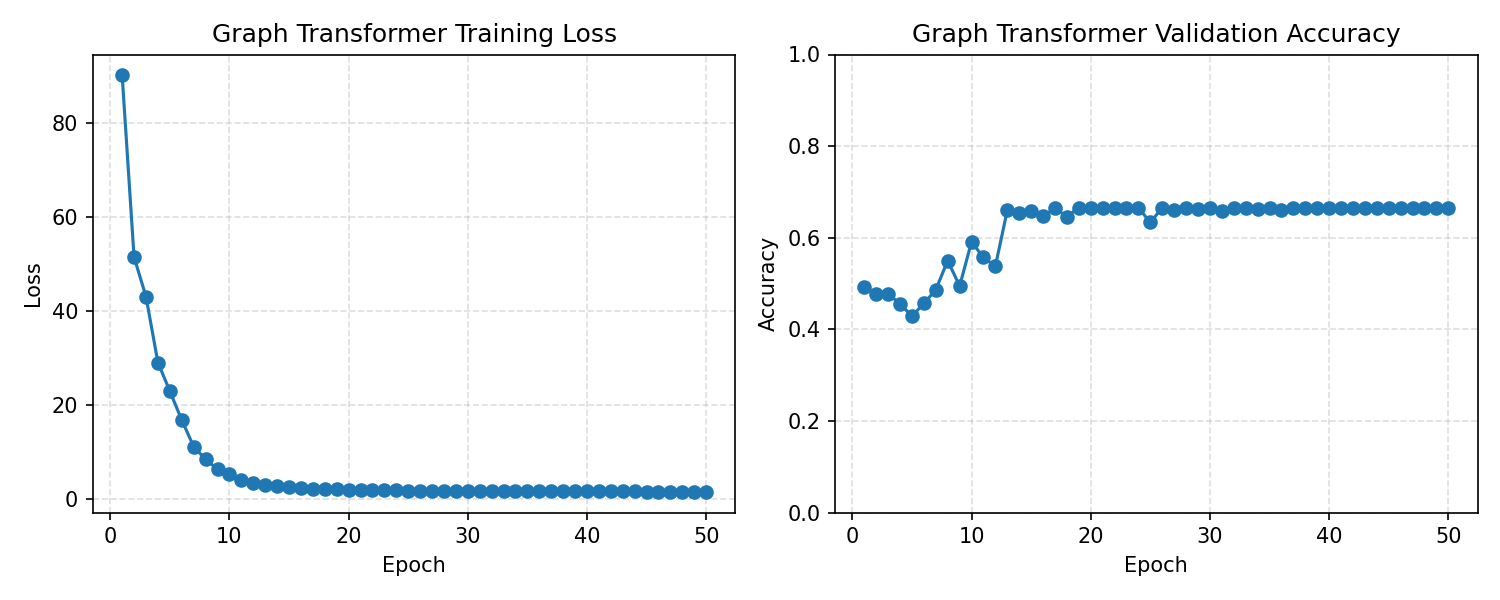
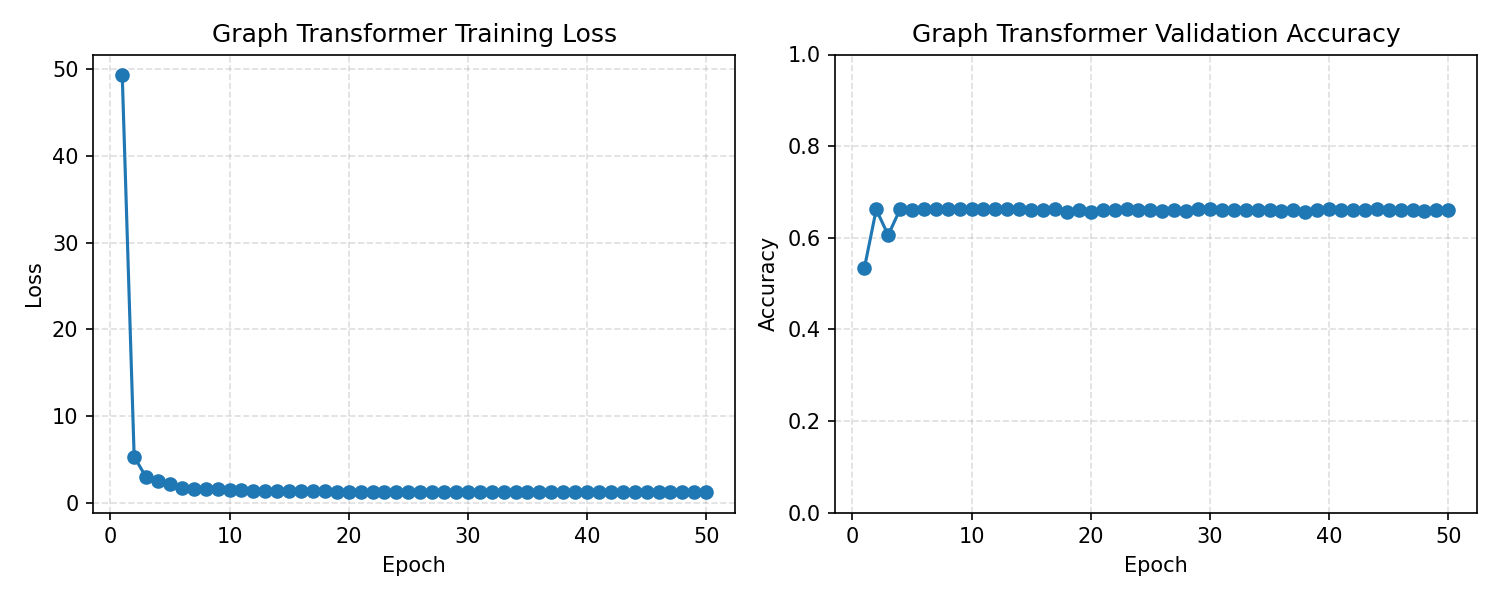
Add sequence based transformer layer

diff --git a/app/transformer_based_next_action/pipeline_runner.py b/app/transformer_based_next_action/pipeline_runner.py
@@ -23,7 +23,7 @@ class TransformerRunner:
         self.loader = loader or DataCsvLoader()
         self.cfg = cfg or GraphConfig()
 
-    def _pretrain_sequence(self, k: int = 32, epochs: int = 5, batch_size: int = 128, lr: float = 1e-3):
+    def _pretrain_sequence(self, k: int = 32, epochs: int = 20, batch_size: int = 128, lr: float = 1e-3):
         dataset = ActionsSequenceDataset(self.loader, self.cfg, k=k)
         if len(dataset) == 0:
             print("No sequences; adjust num_games or k.")
@@ -67,9 +67,9 @@ class TransformerRunner:
             print(f"Pretrain Seq Epoch {epoch+1}/{epochs} - loss {running/max(1,len(loader)):.4f} acc {correct/max(1,total):.4f}")
         return model, dataset
 
-    def train_graph_transformer(self, epochs: int = 3, lr: float = 1e-3, num_layers: int = 5, k_hops: int = 5, batch_size: int = 1024, pretrain_epochs: int = 5, k: int = 32) -> float:
+    def train_graph_transformer(self, epochs: int = 3, lr: float = 1e-3, num_layers: int = 5, k_hops: int = 5, batch_size: int = 1024, pretrain_epochs: int = 5, k_pretrain: int = 32) -> float:
         # Pretrain sequence model and transfer embeddings
-        seq_model, seq_dataset = self._pretrain_sequence(k=k, epochs=pretrain_epochs, batch_size=256, lr=lr)
+        seq_model, seq_dataset = self._pretrain_sequence(k=k_pretrain, epochs=pretrain_epochs, batch_size=256, lr=lr)
 
         # Build single-node hetero graph and train
         builder = HeteroGraphBuilderSingle(self.loader, self.cfg)

diff --git a/app/__main__.py b/app/__main__.py
@@ -46,7 +46,15 @@ def main() -> None:
         # Graph visualization (small subset)
         GraphVisualizer().visualize_graph(graph, max_actions=150)
     elif args.model == "transformer_based_next_action":
-        acc = TransformerRunner().train_graph_transformer(epochs=50, lr=1e-3, num_layers=5)
+        acc = TransformerRunner().train_graph_transformer(
+            epochs=50,
+            lr=1e-3,
+            num_layers=5,
+            k_hops=5,
+            batch_size=1024,
+            pretrain_epochs=20,
+            k_pretrain=5,
+        )
         print(f"Graph Transformer validation accuracy: {acc:.3f}")
     else:
         print(f"Unknown model: {args.model}. Supported: relational_nn, transformer_based_next_action")
